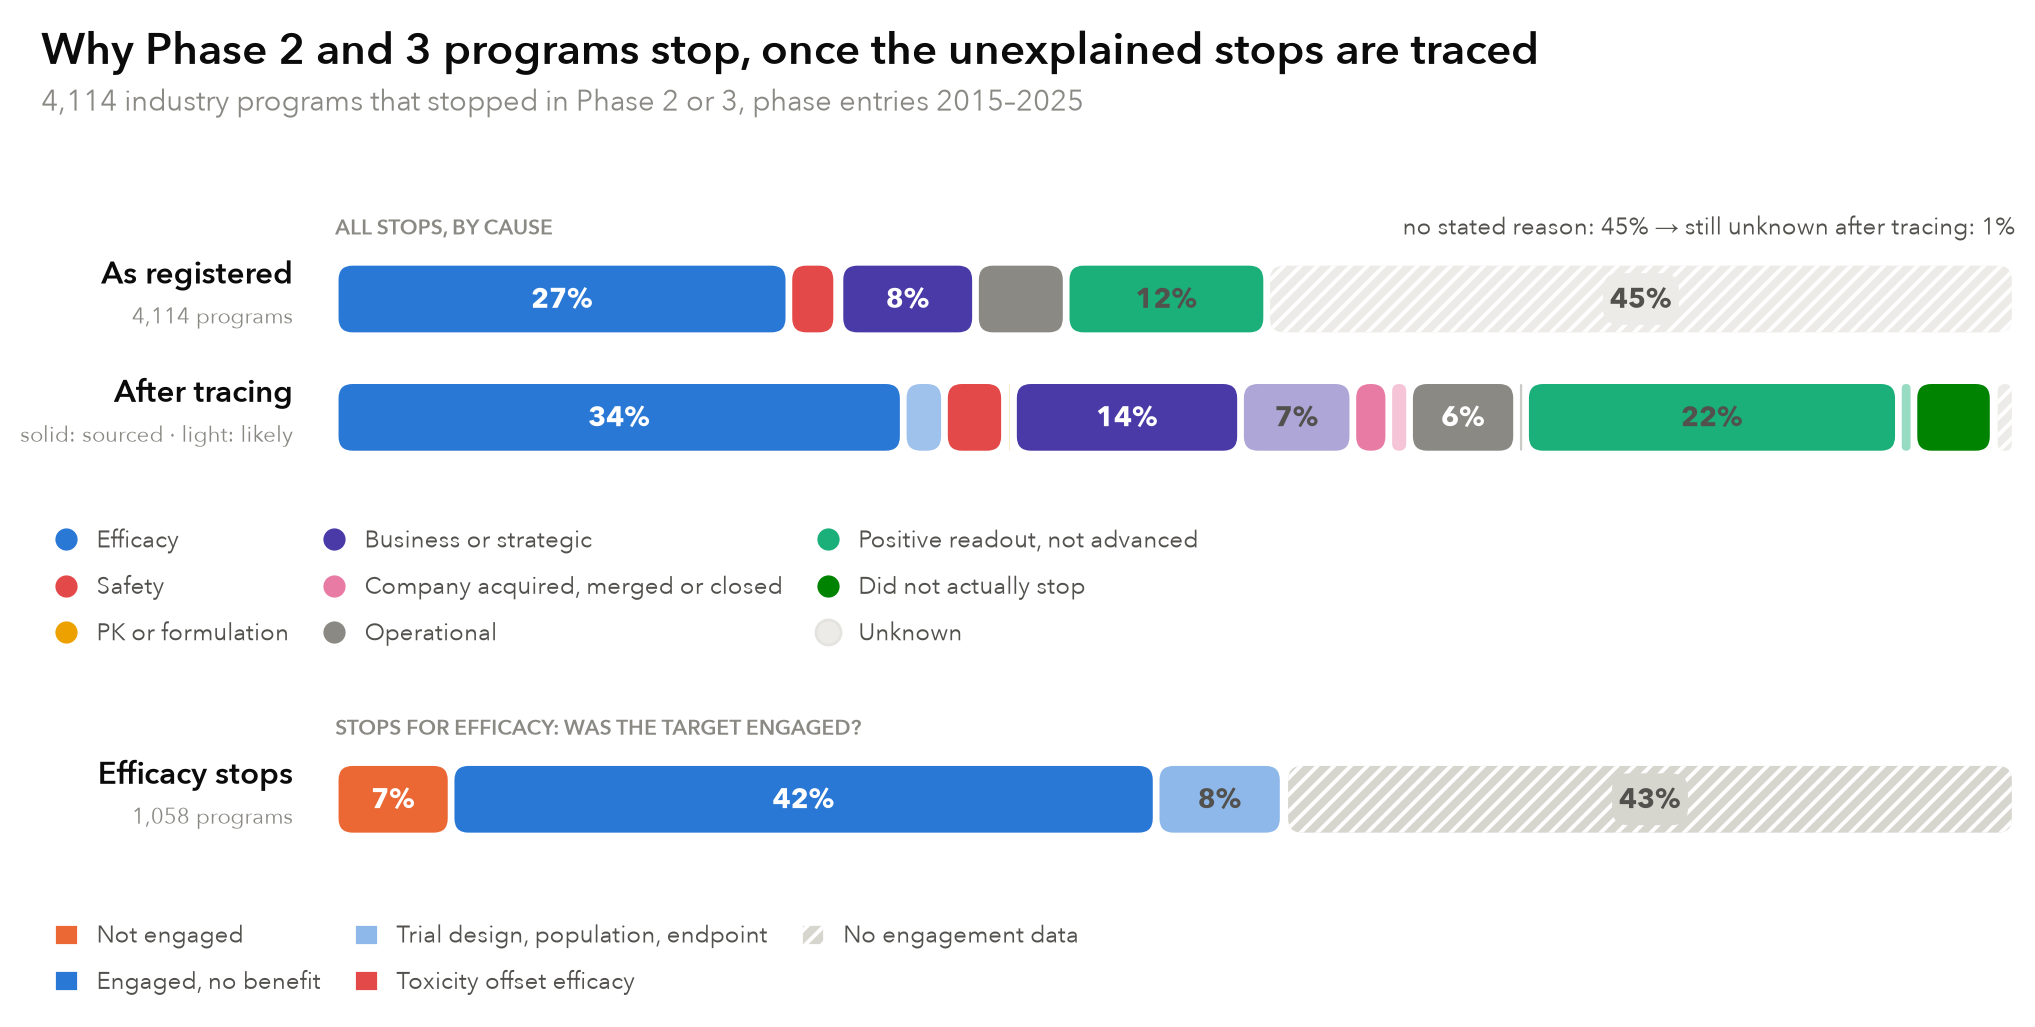
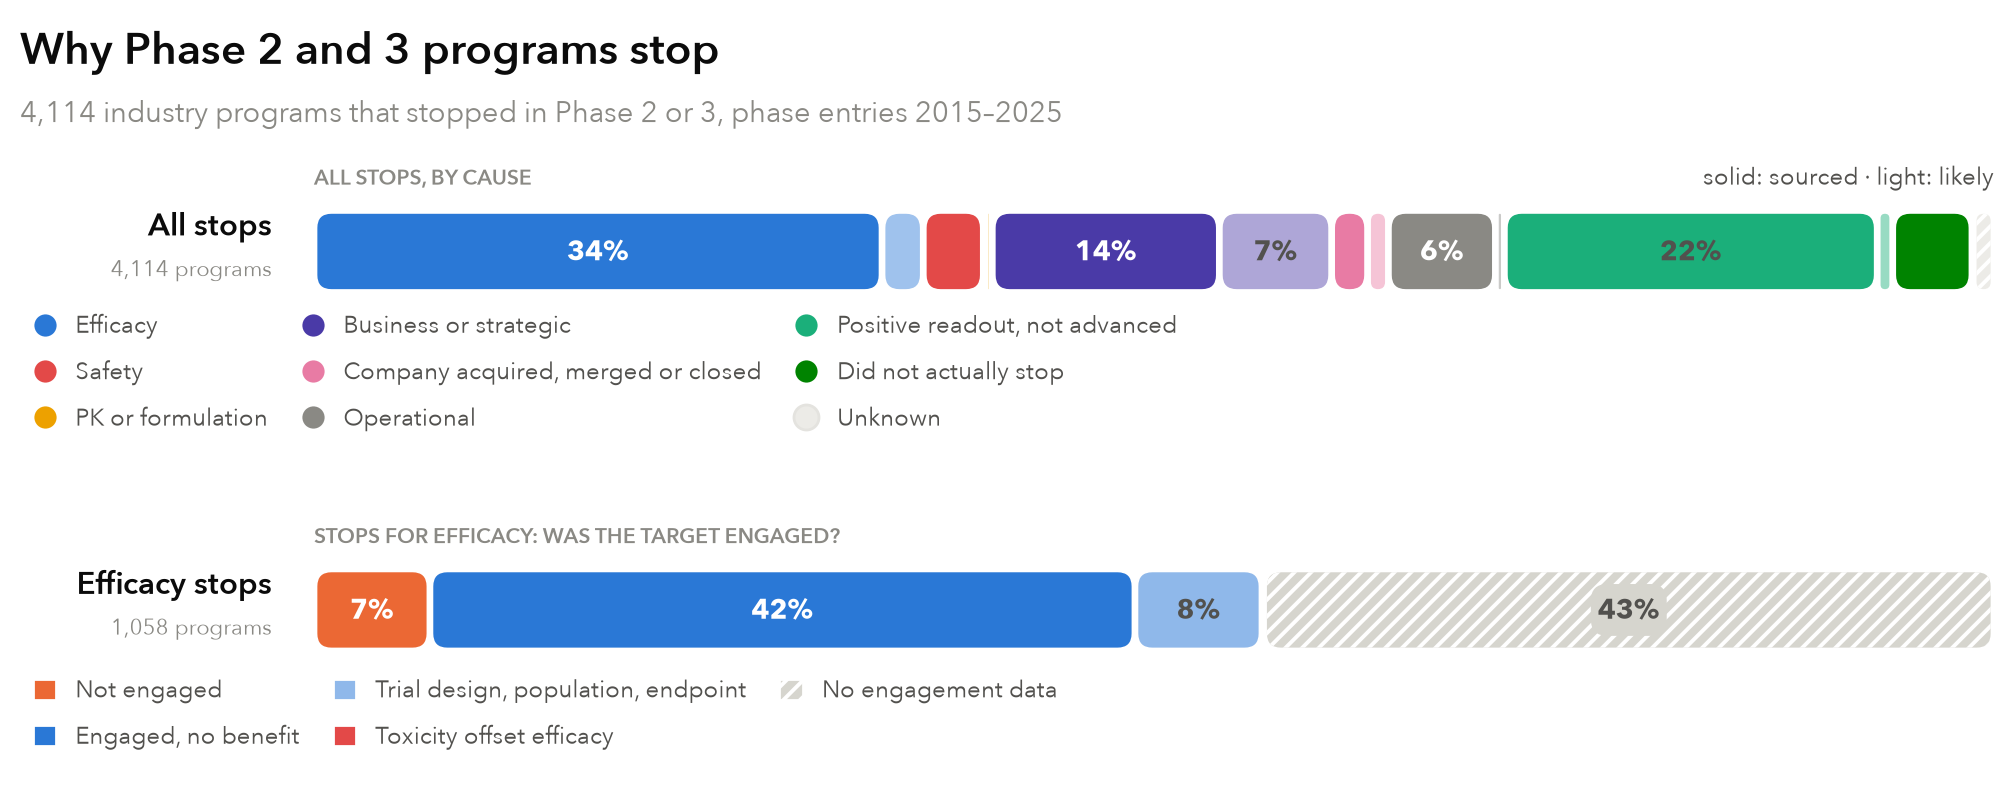
Attribution figure: one bar of all stops after tracing; shorter title

diff --git a/report/figures.py b/report/figures.py
@@ -139,7 +139,6 @@ def efficacy_attribution():
     n = json.load(open(os.path.join(OUT, "attribution", "numbers.json")))
     causes = pd.read_csv(os.path.join(OUT, "stop_causes", "programs.csv"))
     total = len(causes)
-    recorded = [(float((causes.recorded_cause == c).mean()), col, c == "unknown") for c, (_, col) in CAUSE_COLORS.items()]
     after = []
     for c, (_, col) in CAUSE_COLORS.items():
         if c == "unknown":
@@ -149,46 +148,42 @@ def efficacy_attribution():
         after.append((float(((causes.cause == "unknown") & (causes.likely == c)).mean()), tint(col), False))
     e = n["phase23"]
     efficacy = [(e["groups"][g]["share"], col, g == "indeterminate") for g, (_, col) in ATTRIBUTION_COLORS.items()]
-    unstated_before = float((causes.recorded_cause == "unknown").mean())
-    unknown_after = float(((causes.cause == "unknown") & (causes.likely == "unknown")).mean())
 
     logging.getLogger("matplotlib.font_manager").setLevel(logging.ERROR)  # demibold falls back silently
     rc = {"font.family": ["Avenir Next", "Helvetica Neue", "Helvetica", "Arial", "DejaVu Sans"], "font.size": 9,
           "hatch.color": "white", "hatch.linewidth": 1.4}
     with plt.rc_context(rc):
-        fig, ax = plt.subplots(figsize=(10.5, 6.2))
-        fig.subplots_adjust(left=0.17, right=0.97, top=0.84, bottom=0.25)
+        fig, ax = plt.subplots(figsize=(10.5, 4.9))
+        fig.subplots_adjust(left=0.17, right=0.97, top=0.82, bottom=0.2)
         ax.set_xlim(0, 1)
-        ax.set_ylim(-0.5, 6.3)
+        ax.set_ylim(0.4, 5.4)
         ax.axis("off")
-        fig.text(0.03, 0.97, "Why Phase 2 and 3 programs stop, once the unexplained stops are traced",
+        fig.text(0.03, 0.97, "Why Phase 2 and 3 programs stop",
                  fontsize=16, fontweight="demibold", color=INK, va="top")
-        fig.text(0.03, 0.92, f"{total:,} industry programs that stopped in Phase 2 or 3, phase entries 2015–2025",
+        fig.text(0.03, 0.895, f"{total:,} industry programs that stopped in Phase 2 or 3, phase entries 2015–2025",
                  fontsize=10.5, color=MUTED, va="top")
-        rows = [(5.2, "As registered", f"{total:,} programs", recorded),
-                (4.1, "After tracing", "solid: sourced · light: likely", after),
-                (0.55, "Efficacy stops", f"{e['programs']:,} programs", efficacy)]
+        rows = [(4.7, "All stops", f"{total:,} programs", after),
+                (1.75, "Efficacy stops", f"{e['programs']:,} programs", efficacy)]
         for y, label, sub, segments in rows:
             stacked(ax, y, segments)
             ax.text(-0.025, y + 0.04, label, ha="right", va="bottom", fontsize=11, color=INK, fontweight="demibold")
             ax.text(-0.025, y - 0.02, sub, ha="right", va="top", fontsize=8, color=MUTED)
-        ax.text(0, 5.8, "ALL STOPS, BY CAUSE", fontsize=7.5, color=MUTED, fontweight="demibold")
-        ax.text(1, 5.8, f"no stated reason: {unstated_before:.0%} → still unknown after tracing: {unknown_after:.0%}",
-                ha="right", fontsize=8.5, color=INK2)
-        ax.text(0, 1.15, "STOPS FOR EFFICACY: WAS THE TARGET ENGAGED?", fontsize=7.5, color=MUTED, fontweight="demibold")
+        ax.text(0, 5.25, "ALL STOPS, BY CAUSE", fontsize=7.5, color=MUTED, fontweight="demibold")
+        ax.text(1, 5.25, "solid: sourced · light: likely", ha="right", fontsize=8.5, color=INK2)
+        ax.text(0, 2.3, "STOPS FOR EFFICACY: WAS THE TARGET ENGAGED?", fontsize=7.5, color=MUTED, fontweight="demibold")
 
         cause_handles = [matplotlib.lines.Line2D([], [], marker="o", linestyle="", markersize=9, markerfacecolor=col,
                                                  markeredgecolor=GRID if c == "unknown" else "white", label=l)
                          for c, (l, col) in CAUSE_COLORS.items()]
         leg = ax.legend(handles=cause_handles, ncol=3, frameon=False, fontsize=8.5, loc="upper left",
-                        bbox_to_anchor=(-0.18, 0.56), handlelength=1.0, columnspacing=1.4, labelspacing=0.6,
+                        bbox_to_anchor=(-0.18, 0.80), handlelength=1.0, columnspacing=1.4, labelspacing=0.6,
                         labelcolor=INK2)
         ax.add_artist(leg)
         eff_handles = [matplotlib.patches.Patch(facecolor=col, edgecolor="white",
                                                 hatch="////" if g == "indeterminate" else None, label=l)
                        for g, (l, col) in ATTRIBUTION_COLORS.items()]
         ax.legend(handles=eff_handles, ncol=3, frameon=False, fontsize=8.5, loc="upper left",
-                  bbox_to_anchor=(-0.18, 0.02), handlelength=1.0, handleheight=1.0, columnspacing=1.4,
+                  bbox_to_anchor=(-0.18, 0.2), handlelength=1.0, handleheight=1.0, columnspacing=1.4,
                   labelspacing=0.6, labelcolor=INK2)
         save(fig, "efficacy_attribution")
 
